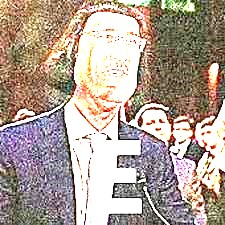
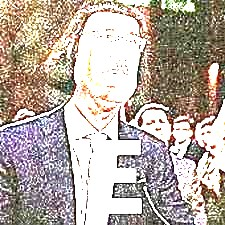
Commit 10
main, from Commit 2

diff --git a/STEPS.md b/STEPS.md
@@ -11,7 +11,7 @@ Commit 6 -- <br>
 Commit 7 -- <br>
 Commit 8 -- <br>
 Commit 9 -- <br>
-Commit 10 -- <br>
+Commit 10 -- Update STEPS.md, Increase highlights on memee.jpg (main)<br>
 Commit 11 -- <br>
 Commit 12 -- <br>
 Commit 13 -- <br>
